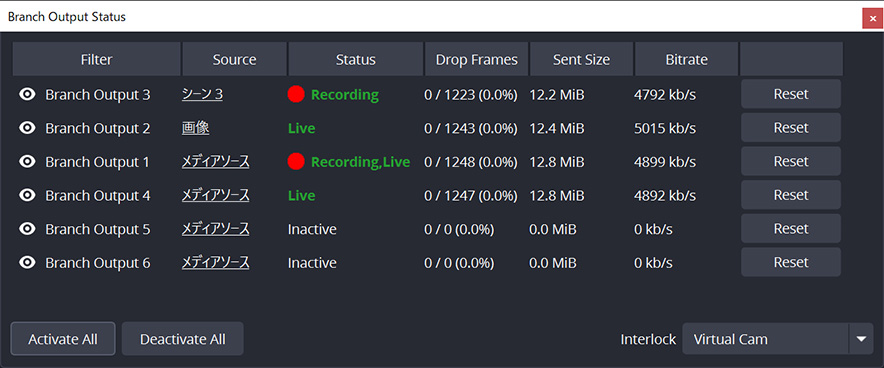
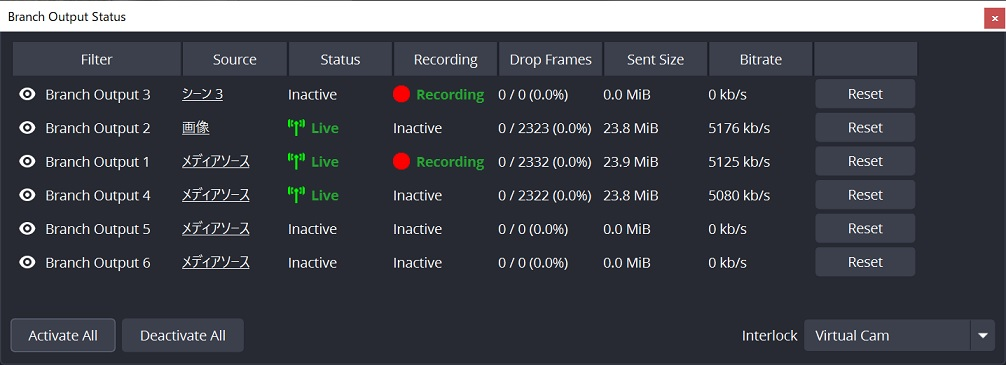
- Improve recording display on status dock. - Update screenshot on README

diff --git a/src/UI/output-status-dock.cpp b/src/UI/output-status-dock.cpp
@@ -59,12 +59,13 @@ BranchOutputStatusDock::BranchOutputStatusDock(QWidget *parent) : QFrame(parent)
     outputTable->setVerticalScrollMode(QTableView::ScrollMode::ScrollPerPixel);
     outputTable->setSelectionMode(QTableWidget::SelectionMode::NoSelection);
     outputTable->setFocusPolicy(Qt::FocusPolicy::NoFocus);
-    outputTable->setColumnCount(7);
+    outputTable->setColumnCount(8);
 
     int col = 0;
     outputTable->setHorizontalHeaderItem(col++, new QTableWidgetItem(QTStr("FilterName")));
     outputTable->setHorizontalHeaderItem(col++, new QTableWidgetItem(QTStr("SourceName")));
     outputTable->setHorizontalHeaderItem(col++, new QTableWidgetItem(QTStr("Status")));
+    outputTable->setHorizontalHeaderItem(col++, new QTableWidgetItem(QTStr("Recording")));
     outputTable->setHorizontalHeaderItem(col++, new QTableWidgetItem(QTStr("DropFrames")));
     outputTable->setHorizontalHeaderItem(col++, new QTableWidgetItem(QTStr("SentDataSize")));
     outputTable->setHorizontalHeaderItem(col++, new QTableWidgetItem(QTStr("BitRate")));
@@ -131,6 +132,7 @@ void BranchOutputStatusDock::loadSettings()
     loadColumn(col++, "filterName");
     loadColumn(col++, "sourceName");
     loadColumn(col++, "status");
+    loadColumn(col++, "recording");
     loadColumn(col++, "dropFrames");
     loadColumn(col++, "sentDataSize");
     loadColumn(col++, "bitRate");
@@ -150,6 +152,7 @@ void BranchOutputStatusDock::saveSettings()
     saveColumn(col++, "filterName");
     saveColumn(col++, "sourceName");
     saveColumn(col++, "status");
+    saveColumn(col++, "recording");
     saveColumn(col++, "dropFrames");
     saveColumn(col++, "sentDataSize");
     saveColumn(col++, "bitRate");
@@ -175,6 +178,9 @@ void BranchOutputStatusDock::addFilter(BranchOutputFilter *filter)
         new FilterCell(QString::fromUtf8(obs_source_get_name(filter->filterSource)), filter->filterSource, this);
     ol.parentCell = new ParentCell(obs_source_get_name(parent), parent, this);
     ol.status = new StatusCell(QTStr("Status.Inactive"), this);
+    ol.status->setIcon(QPixmap(":/branch-output/images/streaming.svg").scaled(16, 16));
+    ol.recording = new StatusCell(QTStr("Status.Inactive"), this);
+    ol.recording->setIcon(QPixmap(":/branch-output/images/recording.svg").scaled(16, 16));
     ol.droppedFrames = new QLabel("", this);
     ol.megabytesSent = new QLabel("", this);
     ol.bitrate = new QLabel("", this);
@@ -186,6 +192,7 @@ void BranchOutputStatusDock::addFilter(BranchOutputFilter *filter)
     outputTable->setCellWidget(row, col++, ol.filterCell);
     outputTable->setCellWidget(row, col++, ol.parentCell);
     outputTable->setCellWidget(row, col++, ol.status);
+    outputTable->setCellWidget(row, col++, ol.recording);
     outputTable->setCellWidget(row, col++, ol.droppedFrames);
     outputTable->setCellWidget(row, col++, ol.megabytesSent);
     outputTable->setCellWidget(row, col++, ol.bitrate);
@@ -247,7 +254,7 @@ void BranchOutputStatusDock::setEabnleAll(bool enabled)
 // Imitate UI/window-basic-stats.cpp
 void BranchOutputStatusDock::OutputTableRow::update()
 {
-    auto output = filter->streamOutput ? filter->streamOutput : filter->recordingOutput;
+    auto output = filter->streamOutput;
     uint64_t totalBytes = output ? obs_output_get_total_bytes(output) : 0;
     uint64_t curTime = os_gettime_ns();
     uint64_t bytesSent = totalBytes;
@@ -267,40 +274,37 @@ void BranchOutputStatusDock::OutputTableRow::update()
         kbps = 0.0l;
     }
 
-    QStringList statusStr;
-    QString themeID;
-    bool live = filter->streamOutput ? obs_output_active(filter->streamOutput) : false;
-    bool rec = filter->recordingOutput ? obs_output_active(filter->recordingOutput) : false;
-    if (rec) {
-        statusStr.append(QTStr("Status.Recording"));
-        themeID = "good";
-    }
-
-    if (live) {
+    // Status display
+    QString statusStr = QTStr("Status.Inactive");
+    QString themeID = "";
+    bool active = filter->streamOutput ? obs_output_active(filter->streamOutput) : false;
+    if (active) {
         bool reconnecting = filter->streamOutput ? obs_output_reconnecting(filter->streamOutput) : false;
 
         if (reconnecting) {
-            statusStr.append(QTStr("Status.Reconnecting"));
+            statusStr = QTStr("Status.Reconnecting");
             themeID = "error";
         } else {
-            statusStr.append(QTStr("Status.Live"));
+            statusStr = QTStr("Status.Live");
             themeID = "good";
         }
     }
-
-    if (!statusStr.size()) {
-        statusStr.append(QTStr("Status.Inactive"));
-    }
-
-    status->setText(statusStr.join(","));
+    status->setIconShow(active);
+    status->setText(statusStr);
     status->setTheme(themeID);
 
-    if (rec) {
-        status->setIcon(QPixmap(":/branch-output/images/recording.svg").scaled(16, 16));
-        status->setIconShow(true);
+    // Recording display
+    active = filter->recordingOutput ? obs_output_active(filter->recordingOutput) : false;
+    if (active) {
+        statusStr = QTStr("Status.Recording");
+        themeID = "good";
     } else {
-        status->setIconShow(false);
+        statusStr = QTStr("Status.Inactive");
+        themeID = "";
     }
+    recording->setIconShow(active);
+    recording->setText(statusStr);
+    recording->setTheme(themeID);
 
     long double num = (long double)totalBytes / (1024.0l * 1024.0l);
     const char *unit = "MiB";
@@ -351,7 +355,7 @@ void BranchOutputStatusDock::OutputTableRow::update()
 
 void BranchOutputStatusDock::OutputTableRow::reset()
 {
-    auto output = filter->streamOutput ? filter->streamOutput : filter->recordingOutput;
+    auto output = filter->streamOutput;
     if (!output) {
         return;
     }
@@ -461,6 +465,7 @@ StatusCell::StatusCell(const QString &text, QWidget *parent) : QWidget(parent)
     statusText = new QLabel(text, this);
 
     icon->setSizePolicy(QSizePolicy::Maximum, QSizePolicy::Maximum);
+    icon->setVisible(false);
 
     auto layout = new QHBoxLayout();
     layout->setContentsMargins(0, 0, 0, 0);

diff --git a/src/UI/output-status-dock.hpp b/src/UI/output-status-dock.hpp
@@ -98,6 +98,7 @@ class BranchOutputStatusDock : public QFrame {
         FilterCell *filterCell;
         ParentCell *parentCell;
         StatusCell *status;
+        StatusCell *recording;
         QLabel *droppedFrames;
         QLabel *megabytesSent;
         QLabel *bitrate;
